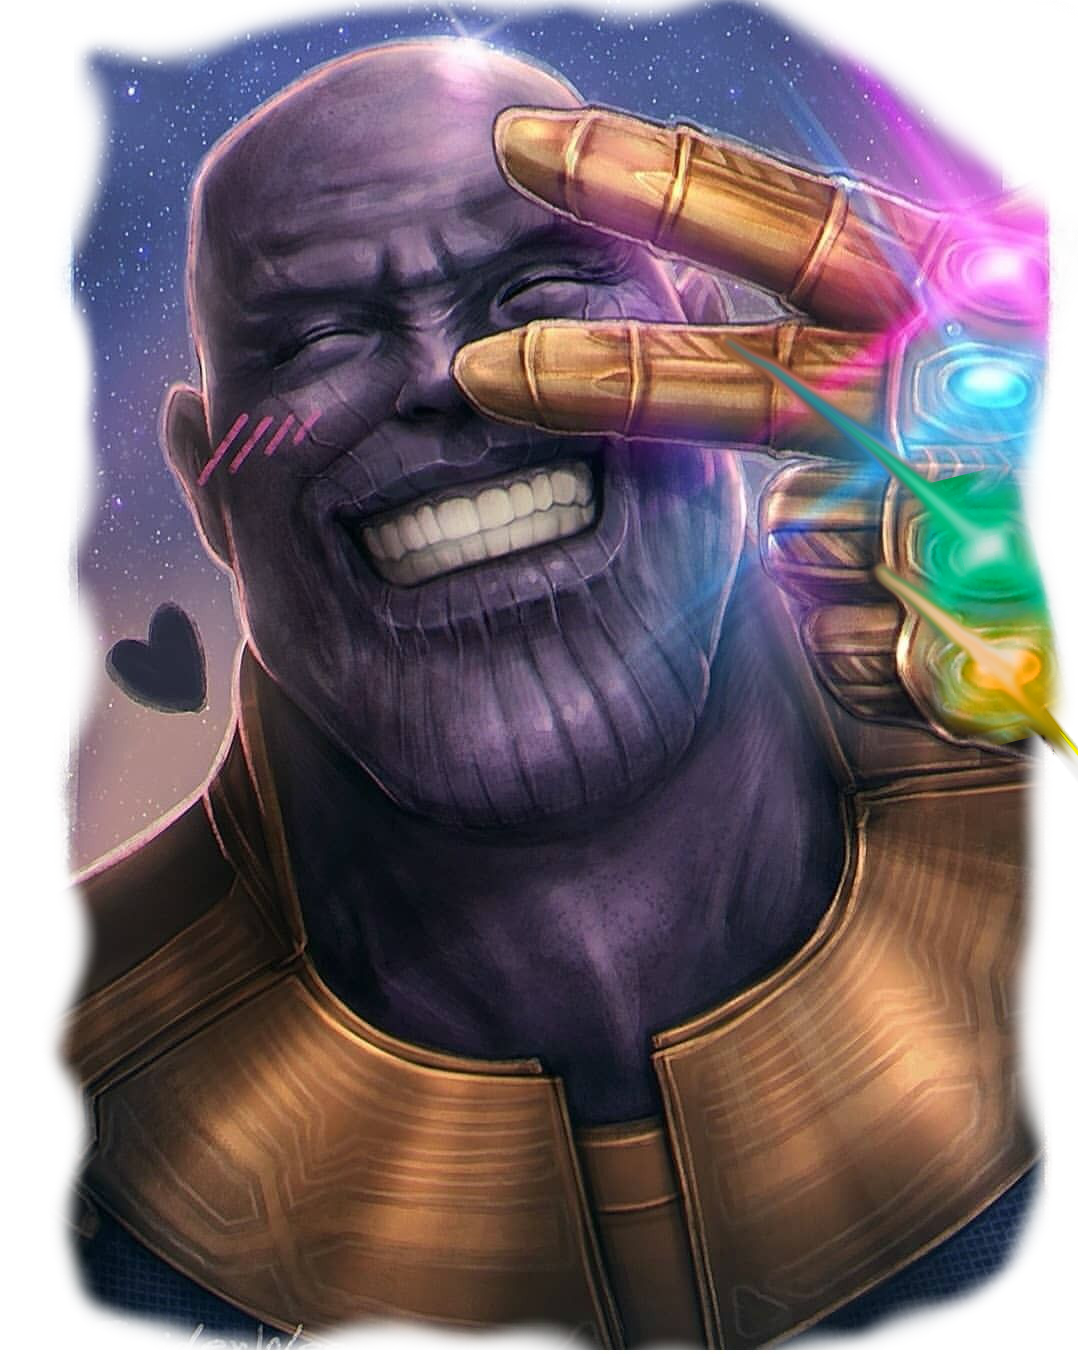
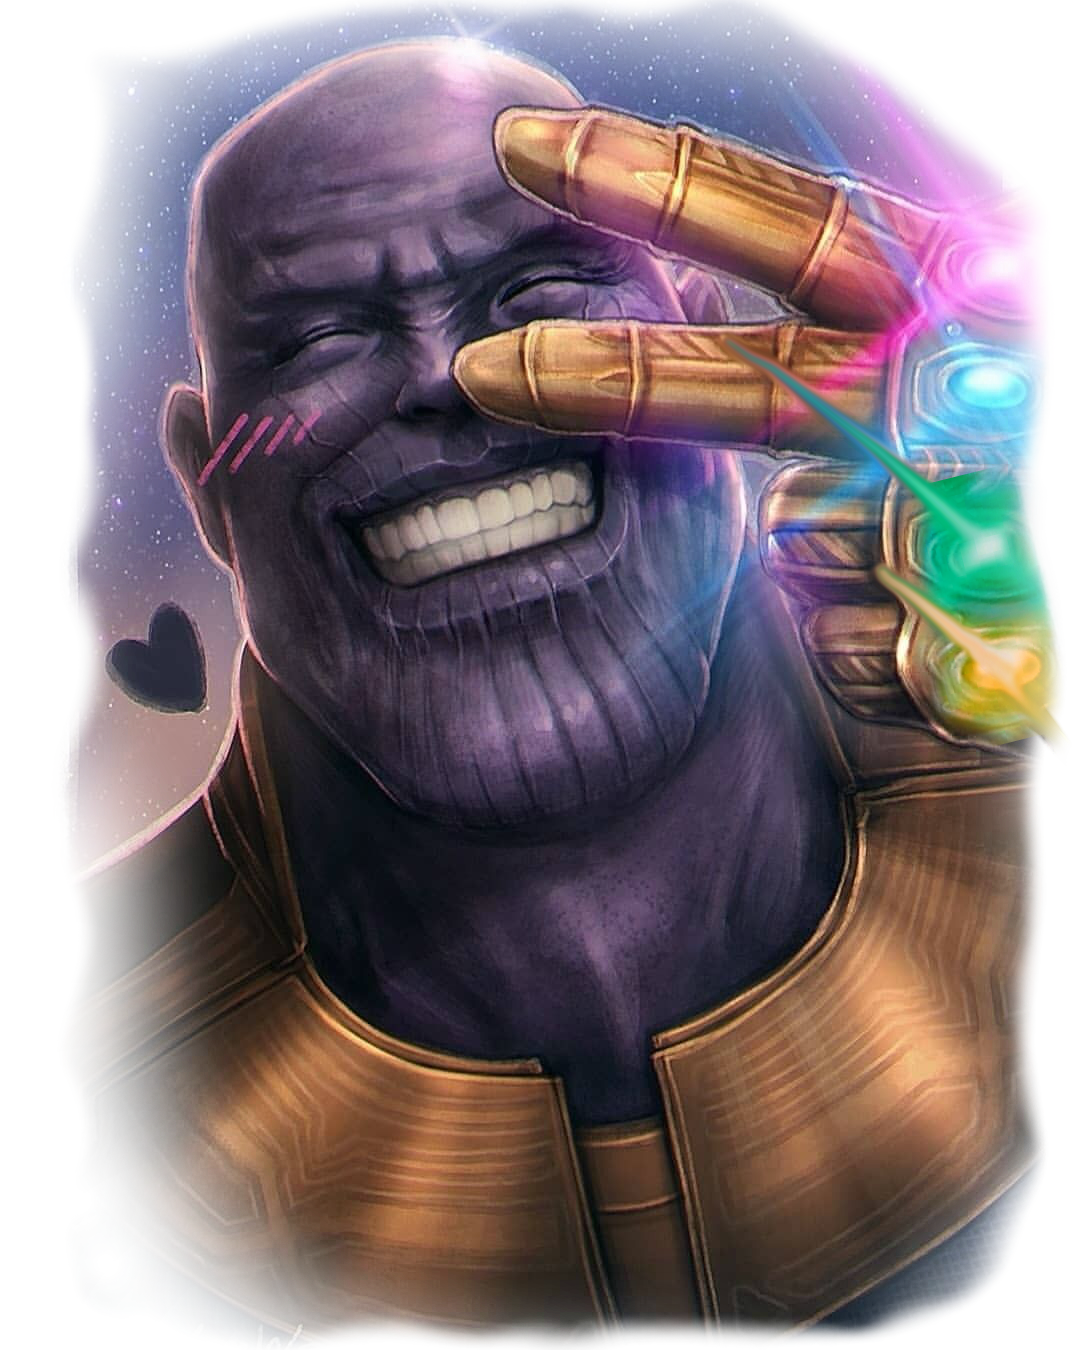
added images that appear on win or loss

Changed region(s): [[0.0612, 0.0, 1.0, 0.7134], [0.0306, 0.5273, 0.9796, 1.0]]

diff --git a/assets/javascript/game.js b/assets/javascript/game.js
@@ -1,6 +1,9 @@
 $(document).ready(function() {
 
     // ~ ~ ~ ~ ~ ~ variables ~ ~ ~ ~ ~ ~
+    var winImage = $(".thanos-happy");
+    var lossImage = $(".thanos-sad");
+
     var target = 0; 
 
     var redGem = "";
@@ -25,6 +28,7 @@ $(document).ready(function() {
 
     // ask about setting a target that MUST be attainable by adding some combination
     // of the four gem numbers
+    // for-loop with modulus maybe?
     // for (var j = 0; j < crystalPointArray.length; j++) {
         //     if (target % crystalPointArray[j] != 0)
 
@@ -49,6 +53,8 @@ $(document).ready(function() {
         setTarget(); // reset the target number (currently runs on page refresh only)
         setGemPoints(); //generate the crystalPointArray and assign the points from it to the gem variables
         playerPoints = 0;
+        winImage.animate({ opacity: "0" });
+        lossImage.animate({ opacity: "0" });
         updatePoints();
     }; 
     //_ _ _ _ _ _ _ _ _ _ _ _ _ _ _ _ _
@@ -76,7 +82,12 @@ $(document).ready(function() {
             alert("SNAP!");
             losses++;
             updateWinLose();
-            reset();
+            lossImage.animate({ opacity: "1" });
+            confirm("Play again?");
+                if (confirm) {
+                    reset();
+                } else {
+                }
         }
         else if (playerPoints === target)
         {
@@ -84,7 +95,12 @@ $(document).ready(function() {
             alert("Perfectly balanced - as all things should be!");
             wins++;
             updateWinLose();
-            reset();
+            winImage.animate({ opacity: "1" });
+            confirm("Play again?");
+                if (confirm) {
+                    reset();
+                } else {
+                }
         }
         else 
         {

diff --git a/index.html b/index.html
@@ -36,16 +36,18 @@
 
                 <p>The numbers they generate changes every round, and are a mystery until each is clicked!</p>
                 
-                <p>Click each gem until your population and the Universal Number are perfectly balanced - as all things should be!</p> 
+                <p>Click each gem until your population and the Ideal Number are perfectly balanced - as all things should be!</p> 
                 
                 <p>But be careful not to go too far....</p></h3>
                 </div>
 
                 <div class="col-md-6">
-                    <div id="image-div"></div>
+                    <div id="win-div"></div>
             
-                    <!-- Captain Planet Image -->
-                    <img src="assets/images/captain-planet.jpg" alt="" class="img captain-planet" style="position:absolute; top:50px; left: 80px; z-index: -20; height: 300px">
+                    <!-- win image -->
+                    <img src="assets/images/thanoshappy.png" alt="" class="img thanos-happy" style="position:absolute; top:50px; left: 80px; z-index: -20; height: 450px">
+                     <!-- loss image -->
+                     <img src="assets/images/thanos-sad.png" alt="" class="img thanos-sad" style="position:absolute; top:50px; left: 80px; z-index: -20; height: 450px">
                 </div>
             </div>
 

diff --git a/assets/css/style.css b/assets/css/style.css
@@ -78,3 +78,12 @@ body {
     margin: 5px;
     padding: 10px;
 }
+
+
+.thanos-happy {
+    opacity: 0;
+}
+
+.thanos-sad {
+    opacity: 0;
+}
